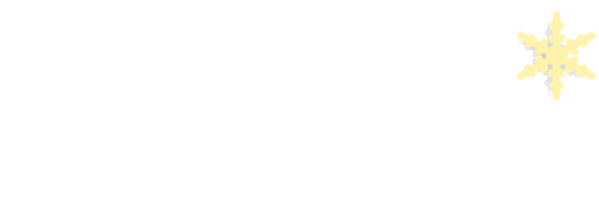
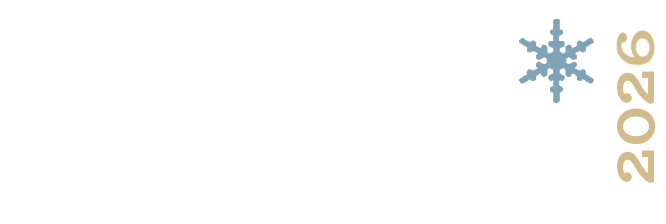
Updated as per latest leaflet

Changed region(s): [[0.7813, 0.0312, 1.0, 0.8125]]

diff --git a/lib/helpers.dart b/lib/helpers.dart
@@ -210,10 +210,12 @@ BottomNavigationBar fairBottomNavigationBar(int index, ValueChanged<int> onTabSe
 }
 
 Drawer fairDrawer(BuildContext context, {required AnalyticsService analyticsService}) {
+  final colorScheme = Theme.of(context).colorScheme;
+  final menuStyle = TextStyle(fontWeight: FontWeight.bold, color: colorScheme.onPrimary);
   return Drawer(
     child: Container(
       decoration: BoxDecoration(
-        gradient: LinearGradient(begin: AlignmentGeometry.topCenter, end: AlignmentGeometry.bottomCenter,
+        gradient: LinearGradient(begin: AlignmentGeometry.center, end: AlignmentGeometry.bottomCenter,
         colors: [Theme.of(context).colorScheme.primary, Theme.of(context).colorScheme.secondary])
       ),
       child: Column(
@@ -234,9 +236,9 @@ Drawer fairDrawer(BuildContext context, {required AnalyticsService analyticsServ
                       child: Image.asset('assets/MRWF26_leaflet_banner.png', fit: BoxFit.contain),
                     ),
                     Expanded(flex: 2, child: Container()),
-                    FittedBox(
+                    const FittedBox(
                       fit: BoxFit.scaleDown,
-                      child: Text(' $fairDateTimes', style: TextStyle(color: Color.fromRGBO(228, 199, 143, 1), fontSize: 13, fontWeight: FontWeight.bold)),
+                      child: Text(' $fairDateTimes', style: TextStyle(color: Color.fromRGBO(210, 188, 140, 1), fontSize: 14, fontWeight: FontWeight.bold)),
                     ),
                     Expanded(flex: 2, child: Container())
                   ],
@@ -247,15 +249,14 @@ Drawer fairDrawer(BuildContext context, {required AnalyticsService analyticsServ
           Expanded(
             flex: 4,
             child: ListTile(
-              leading: const Icon(Icons.info),
-              title: const Text('About the Fair', style: TextStyle(fontWeight: FontWeight.bold)),
+              leading: Icon(Icons.info, color: colorScheme.onPrimary),
+              title: Text('About the Fair', style: menuStyle),
               onTap: () {
                 HapticFeedback.lightImpact();
                 analyticsService.logButtonTapped('drawer_about_fair');
                 final navigatorContext = Navigator.of(context).context; // parent context (above the drawer)
                 Navigator.pop(context);
-                Navigator.push(
-                    navigatorContext,
+                Navigator.push(navigatorContext,
                     MaterialPageRoute(
                         builder: (context) => AboutTheFairPage(
                               analyticsService: analyticsService,
@@ -266,8 +267,8 @@ Drawer fairDrawer(BuildContext context, {required AnalyticsService analyticsServ
           Expanded(
             flex: 4,
             child: ListTile(
-              leading: const Icon(Icons.warning),
-              title: const Text('Important information', style: TextStyle(fontWeight: FontWeight.bold)),
+              leading: Icon(Icons.warning, color: colorScheme.onPrimary),
+              title: Text('Important information', style: menuStyle),
               onTap: () {
                 HapticFeedback.lightImpact();
                 analyticsService.logButtonTapped('drawer_important_information');
@@ -285,8 +286,8 @@ Drawer fairDrawer(BuildContext context, {required AnalyticsService analyticsServ
           Expanded(
             flex: 4,
             child: ListTile(
-              leading: const Icon(Icons.public),
-              title: const Text('Visit our website', style: TextStyle(fontWeight: FontWeight.bold)),
+              leading: Icon(Icons.public, color: colorScheme.onPrimary),
+              title: Text('Visit our website', style: menuStyle),
               onTap: () {
                 HapticFeedback.lightImpact();
                 analyticsService.logButtonTapped('drawer_website');
@@ -298,8 +299,8 @@ Drawer fairDrawer(BuildContext context, {required AnalyticsService analyticsServ
           Expanded(
             flex: 4,
             child: ListTile(
-              leading: const Icon(Icons.email),
-              title: const Text('Contact us', style: TextStyle(fontWeight: FontWeight.bold)),
+              leading: Icon(Icons.email, color: colorScheme.onPrimary),
+              title: Text('Contact us', style: menuStyle),
               onTap: () {
                 HapticFeedback.lightImpact();
                 analyticsService.logButtonTapped('drawer_contact');
@@ -317,8 +318,8 @@ Drawer fairDrawer(BuildContext context, {required AnalyticsService analyticsServ
           Expanded(
             flex: 4,
             child: ListTile(
-              leading: const Icon(Icons.volunteer_activism),
-              title: const Text('Donate to the Fair', style: TextStyle(fontWeight: FontWeight.bold)),
+              leading: Icon(Icons.volunteer_activism, color: colorScheme.onPrimary),
+              title: Text('Donate to the Fair', style: menuStyle),
               onTap: () {
                 HapticFeedback.lightImpact();
                 analyticsService.logButtonTapped('drawer_donate');

diff --git a/lib/themes.dart b/lib/themes.dart
@@ -40,11 +40,11 @@ final Map<String, ThemeData> appThemes = {
       brightness: Brightness.light,
       primary: const Color.fromRGBO(25, 41, 103, 1),
       onPrimary: Colors.white,
-      onPrimaryFixedVariant: Color.fromRGBO(244, 248, 255, 1), // timetable swimlanes
+      onPrimaryFixedVariant: const Color.fromRGBO(244, 248, 255, 1), // timetable swimlanes
       secondary: Colors.white,
       onSecondary: Colors.black,
       onSecondaryFixed: const Color.fromRGBO(255, 242, 242, 1), // favourites background
-      tertiary: const Color.fromRGBO(137, 74, 151, 1),//gold 228,199,143
+      tertiary: const Color.fromRGBO(228, 199, 143, 1),//gold 228, 199, 143 // purple 137, 74, 151
       error: Colors.orange,
       onError: Colors.black,
       surface: Colors.white,
@@ -71,7 +71,7 @@ final Map<String, ThemeData> appThemes = {
       brightness: Brightness.dark,
       primary: const Color.fromRGBO(25, 41, 103, 1),
       onPrimary: Colors.black,
-      onPrimaryFixedVariant: Color.fromRGBO(0, 16, 55, 1), // timetable swimlanes
+      onPrimaryFixedVariant: const Color.fromRGBO(0, 16, 55, 1), // timetable swimlanes
       secondary: const Color.fromRGBO(44, 44, 44, 1.0),
       onSecondary: Colors.white,
       onSecondaryFixed: const Color.fromRGBO(35, 35, 10, 1), // favourites background

diff --git a/lib/globals.dart b/lib/globals.dart
@@ -101,7 +101,7 @@ ValueNotifier<bool> staticChooserPage = ValueNotifier(onTest);
 // Fair date (and times) for this year
 // Also used by the listing-update notifier.
 final fairDate = DateTime(2026, 12, 5);
-const fairDateTimes = 'Saturday 5 December 2026 10:30—16:30';
+const fairDateTimes = 'Saturday 5 December 10:30—16:30';
 
 // Duration threshold under which a listing will be an 'event' and on the timtable
 const maxDurationToBeEvent = Duration(minutes: 120);
